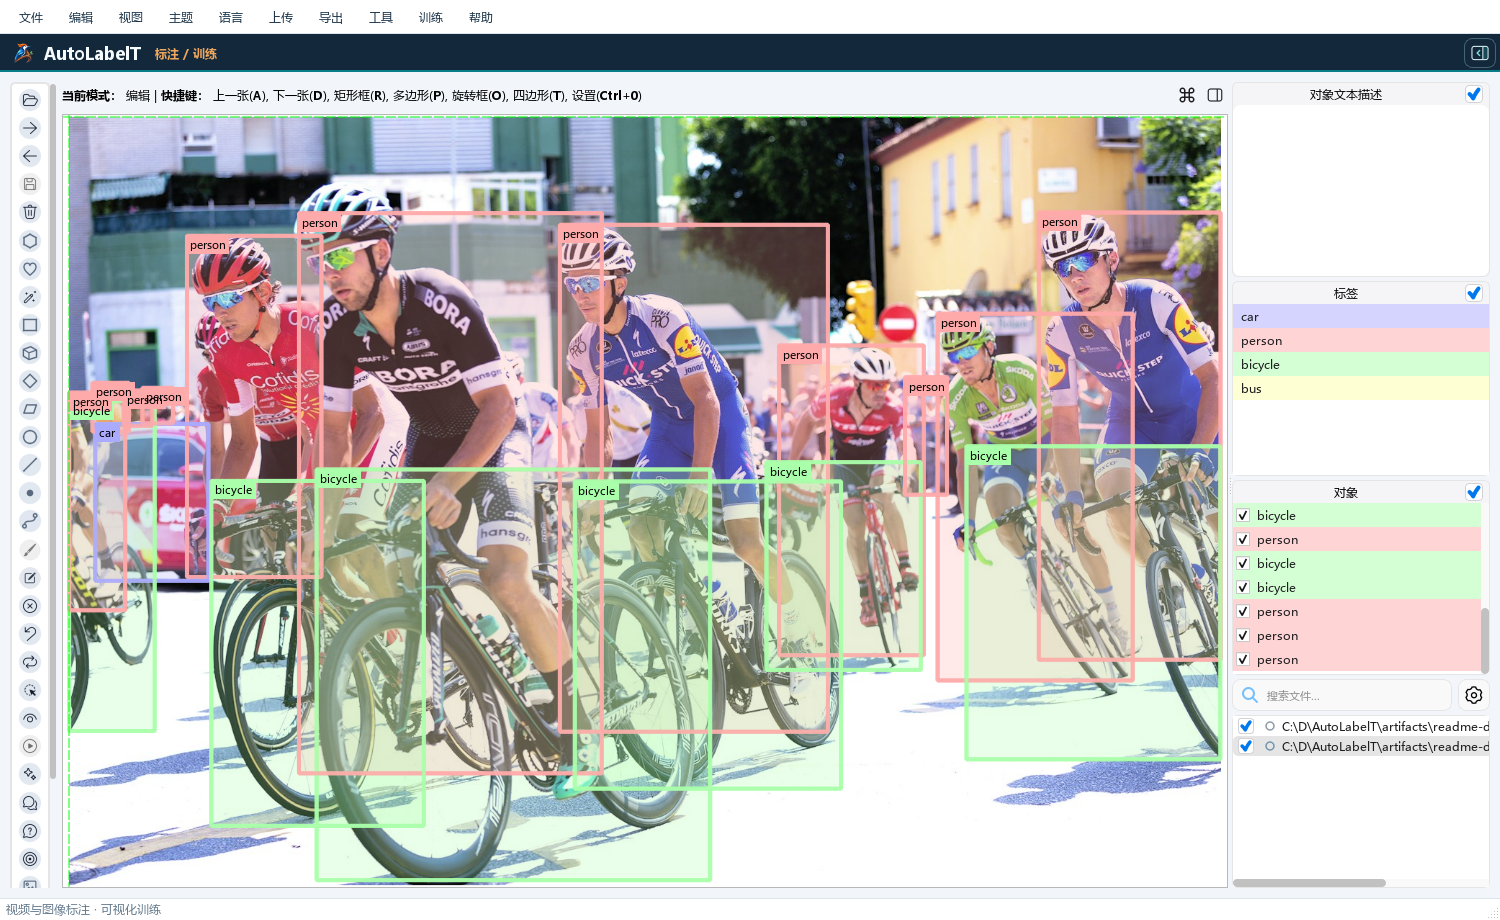
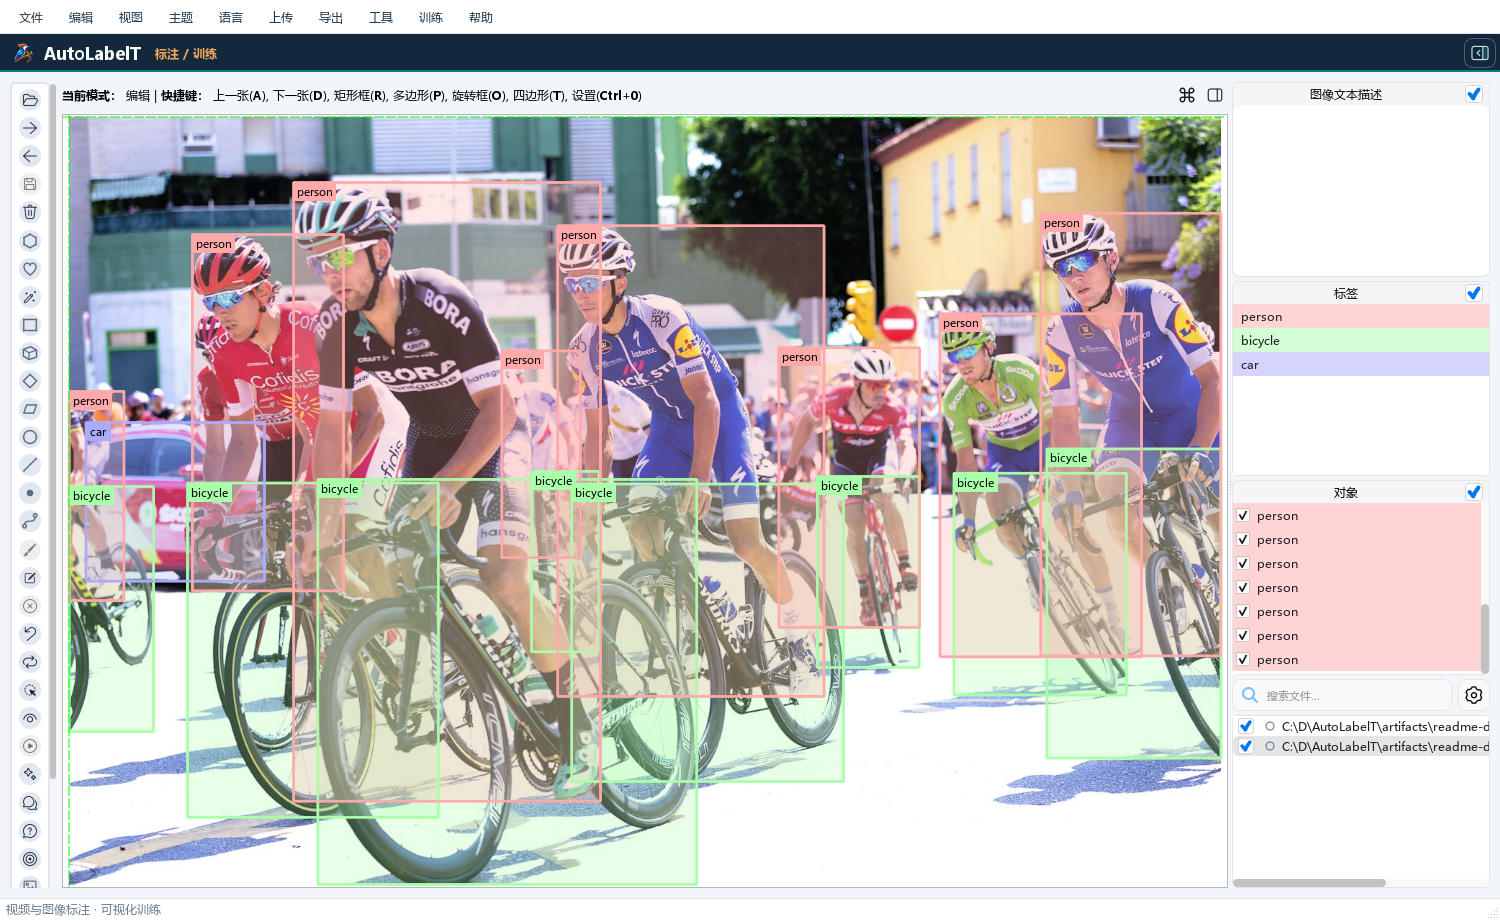
Refine README and review demo annotations

Changed region(s): [[0.0307, 0.1826, 1.0, 0.9739], [0.644, 0.8217, 0.7973, 0.8522], [0.8587, 0.0913, 0.8893, 0.1217]]

diff --git a/README.md b/README.md
@@ -1,13 +1,14 @@
 <div align="center">
   <img src="autolabel/assets/logo.png" alt="AutoLabelT 标志" width="96" height="96" />
   <h1>AutoLabelT</h1>
-  <p><strong>从原始视频到目标检测模型的桌面工作台</strong></p>
+  <p><strong>视频建集、图像标注与目标检测训练工作台</strong></p>
   <p>
     <a href="pyproject.toml"><img src="https://img.shields.io/badge/Python-3.11%20%7C%203.12-3776ab?style=flat-square&amp;logo=python&amp;logoColor=white" alt="Python 3.11 / 3.12" /></a>
     <a href="LICENSE"><img src="https://img.shields.io/badge/License-GPL--3.0-087f8c?style=flat-square" alt="GPL-3.0 许可证" /></a>
   </p>
   <p>
-    <a href="#快速开始">快速开始</a> ·
+    <a href="#核心功能">核心功能</a> ·
+    <a href="#快速开始">🚀 快速开始</a> ·
     <a href="#使用流程">使用流程</a> ·
     <a href="#数据集输出">数据集输出</a> ·
     <a href="#模型支持">模型支持</a> ·
@@ -15,17 +16,24 @@
   </p>
 </div>
 
-AutoLabelT 在同一个桌面应用里完成视频抽帧、图像标注、人工复核和模型训练。它根据检测到的目标数量调整采样步长，按目标高度和小目标占比筛选画面。已有图片或 YOLO 数据集也可直接进入标注和训练流程。
+**AutoLabelT** 把视频素材变成可检查、可编辑、可训练的目标检测数据集。可以从多段视频中筛选含目标的画面并生成初始标注，也可以打开已有图片或 YOLO 数据集，从补标、复核或训练开始。
 
-**批量视频 → 筛选样本并生成标注 → 画布复核 → YOLO / RT-DETR 训练 → ONNX 导出**
+**视频或图像 → 自动标注 → 画布复核 → 同步 YOLO 标签 → 训练与 ONNX 导出**
 
 ![AutoLabelT 自动标注自行车赛照片，画布中以不同颜色区分骑手、自行车和汽车](docs/images/demo-cycling-annotation.png)
 
-<sub>自行车赛标注示例。YOLO11n 生成 18 个检测框，可在画布上逐个复核。照片由 Quino Al 拍摄。 <a href="https://unsplash.com/photos/bike-race-on-street-during-daytime-D3sfNUXLVFc">原图</a> · <a href="https://unsplash.com/license">Unsplash 许可</a></sub>
+## 核心功能
+
+| 功能 | 可以做什么 |
+| --- | --- |
+| 🎬 **视频批量建集** | 设置目标张数和最小帧间隔，预分析每段视频能贡献多少样本，再按目标高度、小目标占比和动态步长筛选画面。 |
+| 🏷 **自动标注与补标** | 用本地模型或预训练模型生成初始框，或从已有结果继续补标，保留已经修正过的标注。 |
+| 🔍 **复核与标签同步** | 在画布上查看、修改或删除检测框，检查低置信度目标，再把保存的复核结果同步回 YOLO TXT。 |
+| 📈 **训练与模型导出** | 为 YOLO 或 RT-DETR 准备数据划分，查看损失、验证指标和训练日志，完成后导出 ONNX。 |
 
 ## 快速开始
 
-准备好 Git 和 Conda，在终端运行以下命令。环境文件会创建 Python 3.11 环境并安装应用及常用模型依赖。
+准备好 Git 和 Conda。以下命令会创建 Python 3.11 环境、安装应用和模型依赖，并启动桌面工作台。
 
 ```bash
 git clone https://github.com/cw-goo/AutoLabelT.git
@@ -35,7 +43,7 @@ conda activate autolabel
 autolabelt
 ```
 
-启动后，可以直接打开图片开始手工标注。视频自动标注需要先加载检测权重。权重可从本地导入，部分模型也可在应用中下载。
+启动后可直接打开图片手工标注。需要自动检测时，从本地导入权重，或在应用中下载受管模型。初次使用视频工作流，可先用一段短视频预分析，确认类别和采样参数后再添加更多素材。
 
 <details>
 <summary>更新环境、GPU 和安装包</summary>
@@ -50,33 +58,36 @@ autolabelt
 
 ### 从视频生成数据集
 
-1. 在右侧“视频数据集”面板添加视频并选择输出目录。打开“模型加载”，选择检测模型、配置类别，再点击“测试模型”。受管模型需要先下载权重。
-2. 首次可以试设目标为 **100 张**、最小间隔为 **25 帧**。点击“预分析并推荐”查看各视频的预计分配，再打开“调整参数”检查并点击“使用参数”。张数填 `0` 时按动态步长扫描。
-3. 点击“开始构建”，查看样本数和淘汰原因。用“在画布中复核”检查标注并修正检测框，再点击“同步更新标签”，将复核结果写回 YOLO TXT。
+1. **准备素材和模型。** 在“视频数据集”面板添加视频、安排处理顺序并选择输出目录。打开“模型加载”，设置检测类别，加载权重后测试模型。
+2. **预分析并确认。** 首次可试设目标为 **100 张**、最小间隔为 **25 帧**。点击“预分析并推荐”查看各视频的分配与初始间隔，再到“调整参数”确认。张数设为 `0` 时，应用会按动态步长扫描。
+3. **构建并复核。** 开始构建后可查看保存数量和淘汰原因。选中样本进入画布，调整位置不准的框、删除误检或补上漏标。
+4. **同步训练标签。** 保存复核结果后，点击“同步更新标签”，将修改写回对应的 YOLO TXT。数据集仍保留样本的来源视频、帧号和运行配置。
 
-指定张数时，软件会在合格样本不足的情况下记录缺口。批量分配、补采与采样参数见 [视频批量处理指南](docs/video-batch.zh-CN.md)。
+指定张数时，应用会根据各段视频的合格率调整分配并补采。合格样本不足时，任务会显示实际张数和缺口。 [视频批量处理指南](docs/video-batch.zh-CN.md)
 
 ![AutoLabelT 视频数据集工作台，右侧显示两个视频的采样分配和已保存的 36 张样本，中央画布展示带行人检测框的抽帧样本](docs/images/demo-video-review.png)
 
-<sub>两段街景视频实际生成 36 张样本。右侧显示每段视频的分配张数和初始间隔，画布显示抽出的行人样本。 <a href="https://www.pexels.com/video/a-city-street-with-cars-and-pedestrians-crossing-the-street-26732129/">David McBee 视频</a> · <a href="https://www.pexels.com/video/a-city-street-with-cars-and-people-walking-20474313/">Israyosoy S. 视频</a> · <a href="https://www.pexels.com/license/">Pexels 许可</a></sub>
+### 为已有图片标注、补标和复核
 
-### 为已有图片补标
+打开图片目录即可在画布上绘制或编辑标注。已有 YOLO 检测数据集时，可打开包含 `images/`、`labels/` 和 `classes.txt` 的目录并继续处理。
 
-在画布中打开图片目录或已有标注的数据集，例如带有 `images/`、`labels/` 和 `classes.txt` 的 YOLO 数据集。加载图片模型后，在“自动运行”中选择“保留旧标注，只补漏标”。补标会依据交并比（IoU，默认 `0.60`）跳过与现有框高度重叠的预测。结果保存为复核 JSON，可在检查后同步或导出 YOLO 标签。
+- **生成初始标注**时，先确认模型与类别映射，再运行图片自动标注。
+- **保留已有工作**时，在“自动运行”中选择“保留旧标注，只补漏标”。应用按交并比判断新框与旧框的重叠程度，默认阈值为 `0.60`。
+- **复核完成**后，把画布上的更改保存到 JSON，再按数据集要求同步或导出 YOLO 标签。
 
-![AutoLabelT 城市街口检测结果，画布标注行人、汽车、自行车和公交车，右侧列出类别和对象](docs/images/demo-street-annotation.png)
-
-<sub>街口自动标注生成 32 个检测框，覆盖行人、汽车、自行车和公交车。照片由 Aanya Chakravarti 拍摄。 <a href="https://unsplash.com/photos/busy-city-street-with-pedestrians-and-cars-kvaaDtr4csU">原图</a> · <a href="https://unsplash.com/license">Unsplash 许可</a></sub>
+![AutoLabelT 城市街口复核结果，画布区分行人与车辆等类别，右侧列出类别和对象](docs/images/demo-street-annotation.png)
 
 ### 训练模型并导出 ONNX
 
-点击右侧边栏底部的“开始训练”，选择数据集，导入或生成 `data.yaml`，再选择 YOLO 或 RT-DETR 检测模型。训练期间可查看损失、Precision、Recall、mAP 和实时日志。训练完成后，在结果页找到 `best.pt`，用“格式转换”导出 ONNX。数据划分和训练选项见 [训练中心指南](docs/training.zh-CN.md)。
+1. 从右侧边栏打开训练中心，选定已复核的数据集。可导入已有的 `data.yaml`，也可在界面里设置训练比例并生成数据划分。
+2. 选择 **YOLO** 或 **RT-DETR**，设置轮次、图像尺寸、批量和设备。运行时可查看训练与验证损失，以及 Precision、Recall、mAP 和日志。
+3. 在“结果与权重”中查看 `best.pt` 和 `last.pt`，通过“格式转换”导出 ONNX。 [训练中心指南](docs/training.zh-CN.md)
 
 ![AutoLabelT 训练中心，显示街景样本完成 8 轮 YOLO 训练后的损失曲线和验证指标](docs/images/demo-training-curves.png)
 
-<sub>使用上方视频生成的 36 张样本进行了 8 轮 YOLO11n 演示训练。截图记录了训练与验证损失，以及 Precision、Recall 和 mAP 的变化。</sub>
-
 ## 数据集输出
+
+视频构建会在所选输出目录生成图片、训练标签和复核记录。类别由 `classes.txt` 的行顺序确定，样本来源和框分数可在元数据中查阅。
 
 ```text
 dataset/
@@ -87,7 +98,7 @@ dataset/
 └── metadata/     # 源视频、帧号、采样统计及逐框分数
 ```
 
-YOLO TXT 每行使用 `class_id center_x center_y width height`，坐标按图像尺寸归一化。复核同步按图片的相对路径写回对应标签，例如 `images/train/frame.jpg` 对应 `labels/train/frame.txt`。只有带复核 JSON 的图片参与写回。
+YOLO TXT 每行使用 `class_id center_x center_y width height`，坐标按图像尺寸归一化。复核同步按图片的相对路径写回标签，例如 `images/train/frame.jpg` 对应 `labels/train/frame.txt`。没有复核 JSON 的图片会保留原有 TXT。
 
 ## 模型支持
 
@@ -123,3 +134,8 @@ python -m pytest -q tests
 AutoLabelT 的标注工作台基于 **X-AnyLabeling 4.2.0**，源码位于 `autolabel/workbench/`，保留上游作者和许可声明。感谢上游项目及其贡献者。 [X-AnyLabeling](https://github.com/CVHub520/X-AnyLabeling)
 
 本项目采用 **GPL-3.0** 许可。第三方组件和模型权重适用各自的许可及访问条件。 [许可证](LICENSE) · [第三方声明](THIRD_PARTY_NOTICES.md)
+
+### 演示素材
+
+- **照片**由 Quino Al 和 Aanya Chakravarti 拍摄。 [自行车赛](https://unsplash.com/photos/bike-race-on-street-during-daytime-D3sfNUXLVFc) · [城市街口](https://unsplash.com/photos/busy-city-street-with-pedestrians-and-cars-kvaaDtr4csU) · [Unsplash 许可](https://unsplash.com/license)
+- **视频**由 David McBee 和 Israyosoy S. 拍摄。 [旧金山街景](https://www.pexels.com/video/a-city-street-with-cars-and-pedestrians-crossing-the-street-26732129/) · [墨西哥城街景](https://www.pexels.com/video/a-city-street-with-cars-and-people-walking-20474313/) · [Pexels 许可](https://www.pexels.com/license/)
